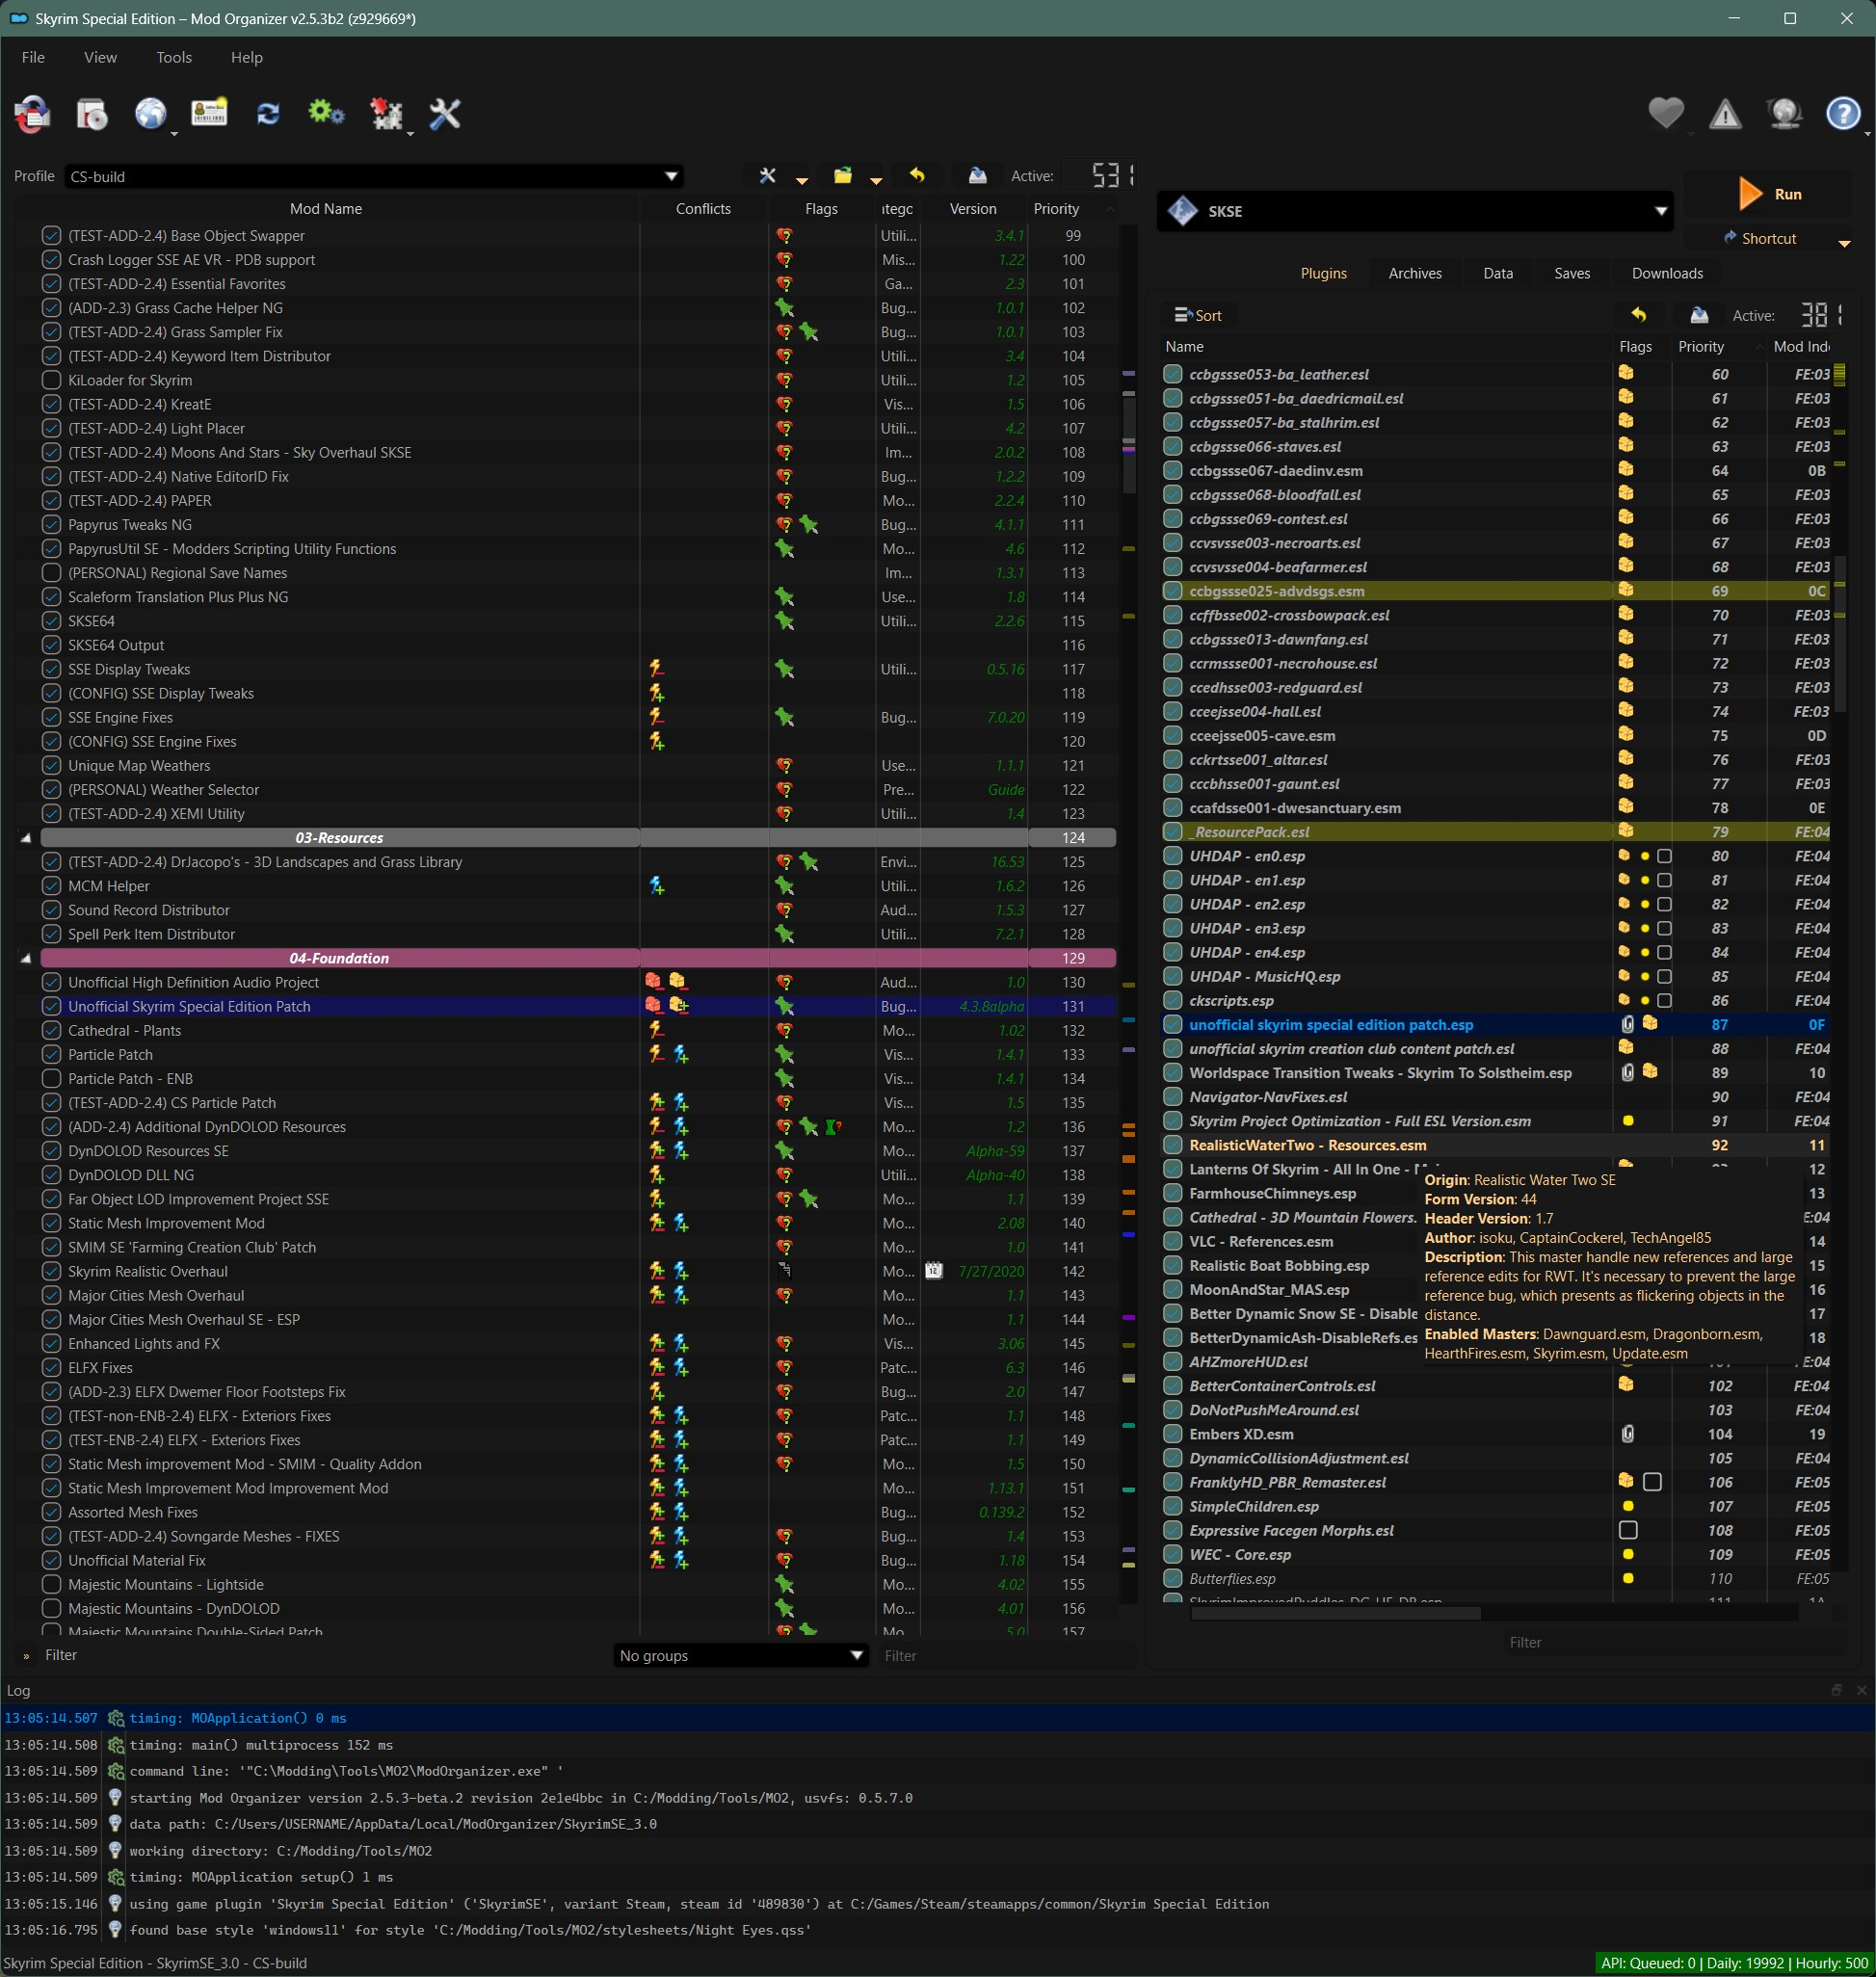
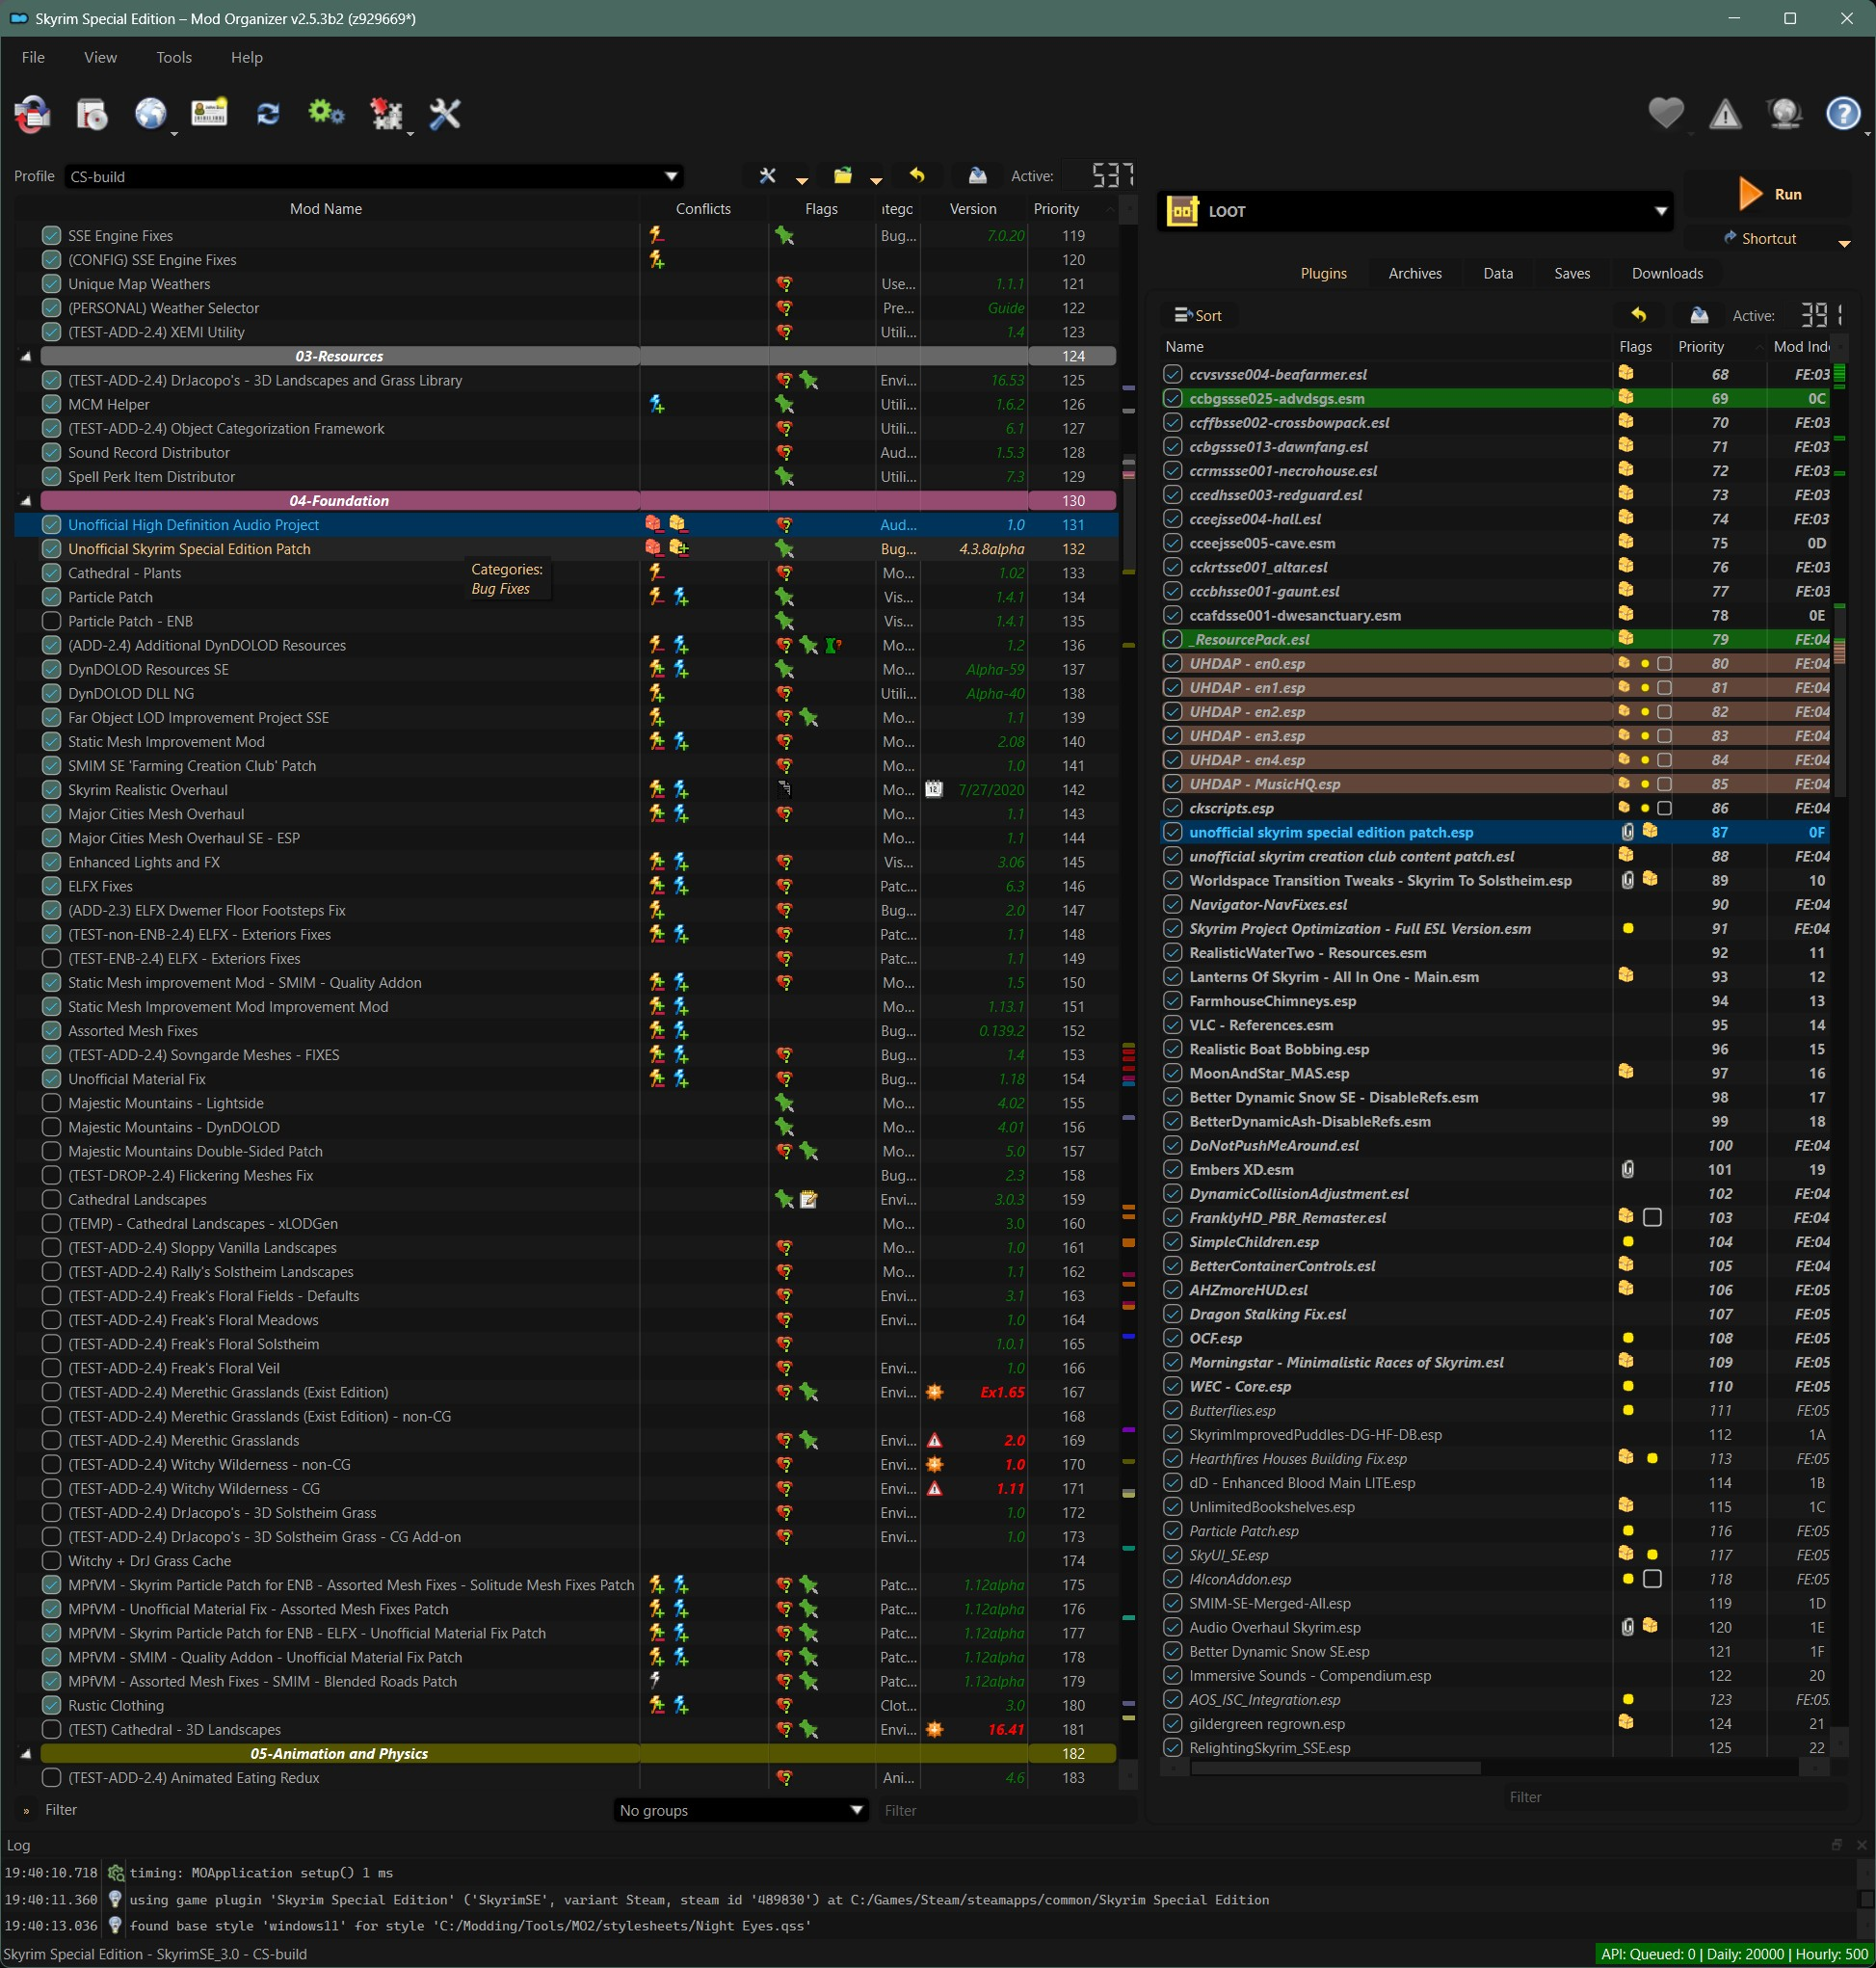
style(night-eyes): small tweaks and update docs
- Add `LICENSE.md` and update `README.md` with theme details
- Refresh theme screenshot to reflect latest visual updates

diff --git a/README.md b/README.md
@@ -1,4 +1,9 @@
-"Night Eyes" theme for Mod Organizer 2.
-Version: 1.2.1
-Author: ciathyza
-Updated by: z929669
+# "Night Eyes" theme for Mod Organizer 2.
+- https://github.com/ciathyza/mo2-themes
+
+Version:	1.2.1
+Author:		ciathyza, z929669
+License:	GPL-3.0
+
+This update increases useability of many UI elements by fixing several
+"low-contrast" issues and refactors the QSS with more breadth and specificity.

diff --git a/LICENSE.md b/LICENSE.md
@@ -1,0 +1,3 @@
+# "Night Eyes" theme for Mod Organizer 2.
+
+This stylesheet is contributed under the same license as Mod Organizer 2:	GPL-3.0